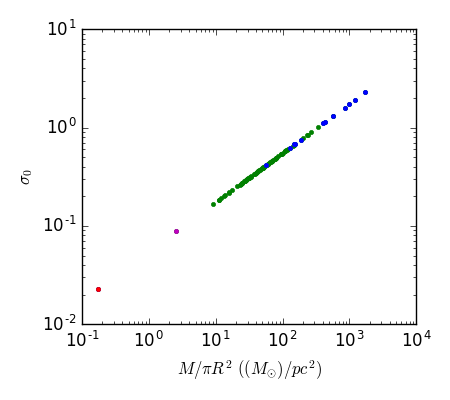
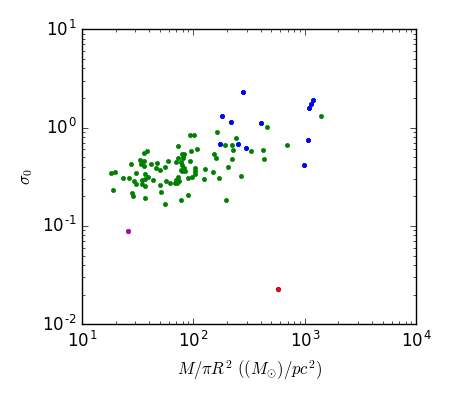
Graphs

diff --git a/gmc_property_plots.py b/gmc_property_plots.py
@@ -14,7 +14,8 @@ mytable = Table.read('m100.co10_props_cprops.fits')
 #Radius vs line width best fit line
 R = np.arange(10,1000)
 S = np.power(np.pi,1/2)*R/3.4
-sigmav = np.power(S,0.5)
+sigmav = np.sqrt(S)
+print sigmav[0]
 one = np.arange(10000,10000000000,10000)
 
 #Virial Mass best fit line
@@ -25,21 +26,14 @@ M_lum = 2000*np.power(np.power(M_vir/39,1.234567901)/130,0.8)
 
 #Sigma_0, Mass Density, R_gal
 sigma0 = mytable['VRMS_EXTRAP_DECONV']/np.sqrt(mytable['RADRMS_EXTRAP_DECONV'])  
-M_den = mytable['VIRMASS_EXTRAP_DECONV']/(np.pi*np.power(mytable['RADRMS_EXTRAP_DECONV'],2)) 
+M_den = mytable['MASS_EXTRAP']/(np.pi*np.power(mytable['RADRMS_EXTRAP_DECONV'],2)) 
 
 mygalaxy = Galaxy("M100")
 cpropstable = Table.read('m100.co10_props_cprops.fits')
 rgal=mygalaxy.radius(ra = cpropstable['XPOS'], dec = cpropstable['YPOS'])
 
-#Make array of indexes for low R_gal group
-A = []
-n = 0
-test = rgal.value
-for item in test:
-	if item < 1200:
-		A = A + [n]
-	n = n +1
-	
+#indexes for low R_gal group 
+index = np.where(rgal.value < 1200)	
 	
 ##PLOTS##
 
@@ -50,8 +44,7 @@ line1.set_linestyle('-')
 line1.set_color('k')
 line2.set_linestyle('None')
 line2.set_marker('.')
-for item in A:
-	plt.loglog(mytable['MASS_EXTRAP'][item],mytable['VIRMASS_EXTRAP_DECONV'][item],marker='.',c='b')
+plt.loglog(mytable['MASS_EXTRAP'][index],mytable['VIRMASS_EXTRAP_DECONV'][index],marker='.',c='b',linestyle='None')
 plt.loglog(mytable['MASS_EXTRAP'][92],mytable['VIRMASS_EXTRAP_DECONV'][92],marker='.',c='r')
 plt.loglog(mytable['MASS_EXTRAP'][132],mytable['VIRMASS_EXTRAP_DECONV'][132],marker='.',c='m')
 plt.xlabel(r'$M_{\mathrm{lum}}\ (M_{\odot})$') 
@@ -68,8 +61,7 @@ line2.set_linestyle('None')
 line2.set_marker('.')
 plt.ylabel(r'$\sigma\ (km\ s^{-1})$') 
 plt.xlabel(r'$R\ (pc)$')
-for item in A:
-	plt.loglog(mytable['RADRMS_EXTRAP_DECONV'][item],mytable['VRMS_EXTRAP_DECONV'][item],marker='.',c='b')
+plt.loglog(mytable['RADRMS_EXTRAP_DECONV'][index],mytable['VRMS_EXTRAP_DECONV'][index],marker='.',c='b',linestyle='None')
 plt.loglog(mytable['RADRMS_EXTRAP_DECONV'][92],mytable['VRMS_EXTRAP_DECONV'][92],marker='.',c='r')
 plt.loglog(mytable['RADRMS_EXTRAP_DECONV'][132],mytable['VRMS_EXTRAP_DECONV'][132],marker='.',c='m')
 plt.tight_layout() 	
@@ -84,8 +76,7 @@ line2.set_linestyle('None')
 line2.set_marker('.')
 plt.xlabel(r'$R\ (pc)$') 
 plt.ylabel(r'$M_{\mathrm{lum}}\ (M_{\odot})$')
-for item in A:
-	plt.loglog(mytable['RADRMS_EXTRAP_DECONV'][item],mytable['MASS_EXTRAP'][item],marker='.',c='b')
+plt.loglog(mytable['RADRMS_EXTRAP_DECONV'][index],mytable['MASS_EXTRAP'][index],marker='.',c='b',linestyle='None')
 plt.loglog(mytable['RADRMS_EXTRAP_DECONV'][92],mytable['MASS_EXTRAP'][92],marker='.',c='r')
 plt.loglog(mytable['RADRMS_EXTRAP_DECONV'][132],mytable['MASS_EXTRAP'][132],marker='.',c='m')
 plt.tight_layout() 	
@@ -96,8 +87,7 @@ figure = plt.figure(figsize=(4.5,4))
 plt.loglog(M_den,sigma0,marker='.',linestyle='None',c='g')
 plt.xlabel('$M/\pi R^2\ ((M_{\odot})/pc^2)$')
 plt.ylabel('$\sigma_0$')
-for item in A:
-	plt.loglog(M_den[item],sigma0[item],marker='.',c='b')
+plt.loglog(M_den[index],sigma0[index],marker='.',c='b',linestyle='None')
 plt.loglog(M_den[92],sigma0[92],marker='.',c='r')
 plt.loglog(M_den[132],sigma0[132],marker='.',c='m')
 plt.tight_layout() 	
@@ -108,8 +98,7 @@ figure = plt.figure(figsize=(4.5,4))
 plt.loglog(rgal.to(u.pc),sigma0,marker='.',linestyle='None',c='g')
 plt.xlabel('$R_{gal} (pc)$')
 plt.ylabel('$\sigma_0$')
-for item in A:
-	plt.loglog(rgal.to(u.pc)[item],sigma0[item],marker='.',c='b')
+plt.loglog(rgal.to(u.pc)[index],sigma0[index],marker='.',c='b',linestyle='None')
 plt.loglog(rgal.to(u.pc)[92],sigma0[92],marker='.',c='r')
 plt.loglog(rgal.to(u.pc)[132],sigma0[132],marker='.',c='m')
 plt.tight_layout() 	
